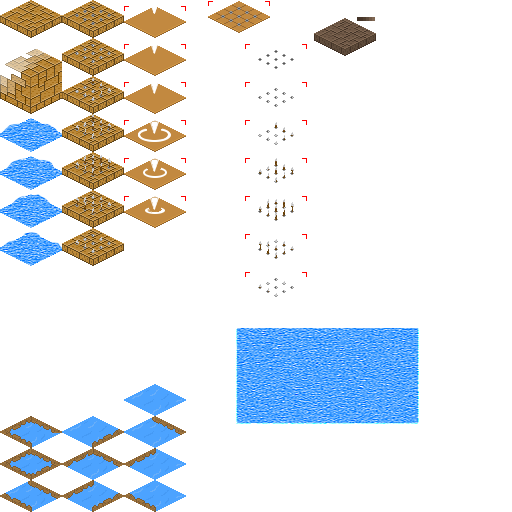
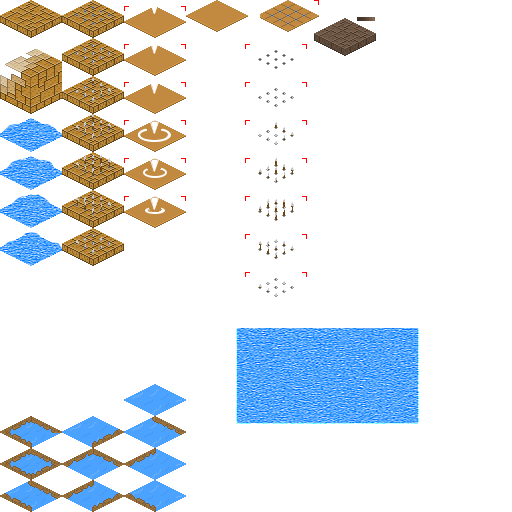
UPDATE ::: level 1

Changed region(s): [[0.375, 0.0, 0.625, 0.0625]]

diff --git a/scripts/main.js b/scripts/main.js
@@ -42,7 +42,8 @@ var conf = {
 				"jumpH2": [124, 76, 62, 38, 32, 16],
 				"jumpH3": [124, 114, 62, 38, 32, 16],
 				"jumpH4": [124, 152, 62, 38, 32, 16],
-				"jumpH5": [124, 190, 62, 38, 32, 16]
+				"jumpH5": [124, 190, 62, 38, 32, 16],
+				"smooth": [186, 0, 62, 32, 32, 16]
 			},
 			"path": "assets/img/tiles.png"
 		},
@@ -73,6 +74,9 @@ var conf = {
 		"wall": [
 			{"id": "wall", "count": 1}
 		],
+		"smooth": [
+			{"id": "smooth", "count": 1}
+		],
 		"water": [
 			{"id": "water0", "count": 2},
 			{"id": "water1", "count": 2},
@@ -87,6 +91,7 @@ var conf = {
 			{"id": "pike4", "count": 1},
 			{"id": "pike5", "count": 1},
 			{"id": "pike6", "count": 1},
+			{"id": "pike1", "count": 1},
 			{"id": "pike1", "count": 1}
 		],
 		"pike2": [
@@ -123,7 +128,7 @@ var conf = {
 			{"id": "jumpH0", "count": 4},
 			{"id": "jumpH2", "count": 1},
 			{"id": "jumpH4", "count": 1},
-			{"id": "jumpH2", "count": 1},
+			{"id": "jumpH2", "count": 1}
 		]
 	},
 
@@ -215,7 +220,7 @@ var conf = {
 			"timeCycle": [
 				{"safe": true, "count": 12},
 				{"safe": false, "count": 2},
-				{"safe": true, "count": 5}
+				{"safe": true, "count": 6}
 			],
 			"type": "cyclic"
 		},
@@ -251,12 +256,28 @@ var conf = {
 				{"safe": false, "count": 1}
 			],
 			"type": "cyclic"
+		},
+
+		"end": {
+			"tileList": [
+				{"id": "wall", "delay": 0},
+				{"id": "smooth", "delay": 0},
+				{"id": "smooth", "delay": 0},
+				{"id": "smooth", "delay": 0},
+				{"id": "smooth", "delay": 0},
+				{"id": "smooth", "delay": 0},
+				{"id": "wall", "delay": 0}
+			],
+			"timeCycle": [
+				{"safe": false, "count": 1}
+			],
+			"type": "end"
 		}
 	},
 
 	"level": {
 		"1": {
-			"map": [ 
+			"map": [
 				"ground", 0,
 				"ground", 0,
 				"ground", 0,
@@ -264,7 +285,7 @@ var conf = {
 				"ground", 0,
 				"ground", 0,
 				"ground", 0,
-				"ground", 0,
+
 				"ground", 0,
 				"ground", 0,
 				"moveHelp", 0,
@@ -272,17 +293,77 @@ var conf = {
 				"ground", 0,
 				"pike2", 32,
 				"ground", 0,
+				"ground", 0,
+				"pike", 0,
+				"pike", 15,
+				"ground", 0,
+
+				"ground", 0,
 				"smallGround", 0,
 				"jumpHelp", 0,
-				"smallGround", 10,
+				"smallGround", 0,
 				"ground", 0,
 				"water", 0,
 				"ground", 0,
 				"ground", 0,
+
+				"smallGround", 0, 
+				"smallGround", 0, 
+				"water", 0,
+				"pike2", 0,
 				"ground", 0,
 				"water", 0,
+				"smallGround", 0, 
+				"smallGround", 0, 
+
 				"ground", 0,
+				"pike", 0,
+				"pike2", 0,
+				"pike", 0,
+				"ground", 0, 
+				"water", 0,
 				"ground", 0,
+
+				"smallGround", 0, 
+				"smallGround", 0, 
+				"pike", 0,
+				"water", 0,
+				"smallGround", 0, 
+				"ground", 0, 
+				"pike2", 14,
+				"pike2", 7,
+				"pike2", 0,
+				"pike", 0,
+				"smallGround", 0, 
+
+
+				"water", 0,
+				"smallGround", 0, 
+				"ground", 0,
+				"pike2", 0,
+				"water", 0,
+				"pike2", 15,
+
+				"smallGround", 0, 
+				"smallGround", 0, 
+				"water", 0,
+				"pike2", 0,
+				"water", 0,
+				"smallGround", 0, 
+				"smallGround", 0, 
+
+
+				"ground", 0, 
+				"smallGround", 0, 
+				"pike", 0,
+				"pike2", 10,
+				"water", 0,
+				"smallGround", 0, 
+				"ground", 0, 
+
+
+
+
 				"ground", 0,
 				"ground", 0,
 				"pike", 32,
@@ -295,6 +376,12 @@ var conf = {
 				"pike2", 16,
 				"pike2", 8,
 				"pike2", 0,
+
+				"ground", 0,
+				"ground", 0,
+				"end", 0,
+				"ground", 0,
+				"ground", 0,
 				"wall", 0
 			]
 		}
@@ -319,3 +406,4 @@ var debug = {};
 		debug.game = game;
 	});
 })(conf, debug);
+

diff --git a/index.html b/index.html
@@ -67,11 +67,6 @@
 			}
 
 			div.score{
-				-webkit-user-select: none;
-				-moz-user-select: none;
-				-ms-user-select: none;
-				user-select: none;
-
 				position: fixed;
 				bottom: 10px;
 				right: 10px;
@@ -79,6 +74,40 @@
 				font-size: 4em;
 				color: white;
 				text-shadow: 0 0 10px orange, 0 0 8px orange, 0 0 5px orange, 0 0 2px orange;
+
+				-webkit-user-select: none;
+				-moz-user-select: none;
+				-ms-user-select: none;
+				user-select: none;
+			}
+
+			div.end{
+				position: fixed;
+
+				top: calc(50vh - 53px);
+				left: calc(50vw - 123px);
+
+				width: 240px;
+				height: 100px;
+
+				background-color: rgba(50, 50, 50, .3);
+				border: solid 3px black;
+				color: white;
+				text-shadow: 0 0 10px orange, 0 0 8px orange, 0 0 5px orange, 0 0 2px orange;
+
+				line-height: 52px;
+				font-size: 2.3em;
+				font-weight: bold;
+
+
+				transition: opacity 200ms;
+				visibility: hidden;
+				opacity: 0;
+			}
+
+			div.end.display{
+				visibility: visible;
+				opacity: 1;
 			}
 
 		</style>
@@ -92,6 +121,7 @@
 		<div class="reset">↻</div>
 
 		<div class="score"></div>
+		<div class="end"></div>
 
 		<audio loop autoplay volume=".1">
   			<source src="./assets/music/theme01.wav" type="audio/wav">

diff --git a/scripts/Game.js b/scripts/Game.js
@@ -80,7 +80,6 @@ Game.prototype = {
 	},
 
 	update: function(time){
-
 		this.currentLevel.update(time);
 	},
 
@@ -90,6 +89,38 @@ Game.prototype = {
 	loadLevel: function(name) {
 		var player = new Player(this.tilesetsMap['player'], this.controller);
 		this.currentLevel = new Level(this.levelMap[name], player, this.obstacleMap);
+	},
+
+
+	/*
+	 * end of game.
+	*/
+	end: function(player){
+		var self = this;
+		var score = player.score;
+		var best = localStorage && localStorage.getItem('best') || 0;
+
+		if(score > best)
+			localStorage && localStorage.setItem('best', score);
+
+
+		var target = document.querySelector('div.end');
+
+		target.innerHTML = [
+			'<span>'+ score +'</span>',
+			'<span> best: '+ best +'</span>'
+		].join('<br/>');
+
+		target.classList.add('display');
+		
+		setTimeout(function () {
+			self.loadLevel('1');
+			document.body.onclick = function(){
+				target.classList.remove('display');
+
+				document.body.onclick = null;
+			};
+		}, 500);
 	}
 };
 

diff --git a/scripts/Obstacle.js b/scripts/Obstacle.js
@@ -36,6 +36,12 @@ Obstacle.prototype = {
 		return !this.timeCycle[ ( (~~(time /Game.TIME_STEP)) +this.timeOffset) %this.timeCycle.length ];
 	},
 
+	end: function(player, time) {
+		if(player.pos >= this.index)
+			debug.game.end(player);
+		return false;
+	},
+
 //type functions END
 
 	/*
@@ -49,10 +55,10 @@ Obstacle.prototype = {
 			tile.tile.render(ctx, innerTime +tile.delay *Game.TIME_STEP, index, y -3);
 		});
 
-		if(this.isMortal(debug.game && debug.game.currentLevel.player || {}, time)){
+		/*if(this.isMortal(debug.game && debug.game.currentLevel.player || {}, time)){
 			var pos = Player.transpose(this.index);
 			ctx.strokeRect(pos.x -10, pos.y -10, 20, 20);
-		}
+		}*/
 	}
 };
 

diff --git a/scripts/Controller.js b/scripts/Controller.js
@@ -57,13 +57,18 @@ Controller.prototype = {
 		div.addEventListener('mousedown', press);
 		div.addEventListener('touchstart', press);
 
-		audio.volume = .25;
+		audio.volume = localStorage && localStorage.getItem('volume') || .25;
 
 		function press(event){
 			if(audio.volume === .25)
 				audio.volume = 0.0;
 			else
 				audio.volume = 0.25;
+
+			if(localStorage){
+				localStorage.setItem('volume', audio.volume);
+			}
+
 
 			event.stopImmediatePropagation();
 		}

diff --git a/scripts/Player.js b/scripts/Player.js
@@ -1,7 +1,7 @@
 function Player(tileset, controller) {
 	this.pos = 6;
 
-	this.score = 100000;
+	this.score = 10000;
 	this.lastScoreDown = 0;
 	this.scoreNode = document.querySelector('div.score');
 	this.scoreNode.innerText = ~~this.score;
@@ -122,7 +122,7 @@ Player.prototype = {
 		this.action = action;
 
 		if(this.action === Player.ACTION.HIT)
-			this.score -= 5;
+			this.score -= 25;
 	},
 
 
